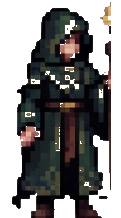
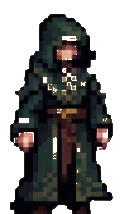
Fix mage sprites, restore frame animation, reduce enemy count
- Mage: 3 clean poses extracted (idle/windup/cast), all 124x214
- Mage attack animation restored as frame-based (windup→cast→idle)
- Enemy count: logarithmic scaling (3 at wave 1, 7 at wave 10, max 12)
  instead of linear (was 4+(wave-1)*2 = 22 at wave 10)
- Direction flicker: threshold 60px, cooldown 800ms

diff --git a/js/wave.js b/js/wave.js
@@ -5,7 +5,11 @@
 // --------------------------------------------------
 function computeWaveEnemyTotal(waveNumber) {
   const wave = Math.max(1, Math.floor(waveNumber || 1));
-  return 4 + (wave - 1) * 2;
+  // Logarithmic scaling: starts at 3, grows slowly, caps at 12
+  // Wave 1: 3, Wave 5: 5, Wave 10: 7, Wave 20: 9, Wave 40: 11
+  const base = 3;
+  const scaled = base + Math.floor(Math.log2(wave) * 1.5);
+  return Math.min(12, scaled);
 }
 window.computeWaveEnemyTotal = computeWaveEnemyTotal;
 

diff --git a/js/enemy.js b/js/enemy.js
@@ -701,7 +701,7 @@ function handleEnemies(time, delta = 16) {
           }
           enemy.lastShotTime = time;
 
-          // Mage cast animation on shoot (500ms total)
+          // Mage cast animation (500ms: windup → cast → idle)
           if (enemy.isMage && !enemy.mageAttacking) {
             enemy.mageAttacking = true;
             const dir = enemy.mageDirection || 'right';
